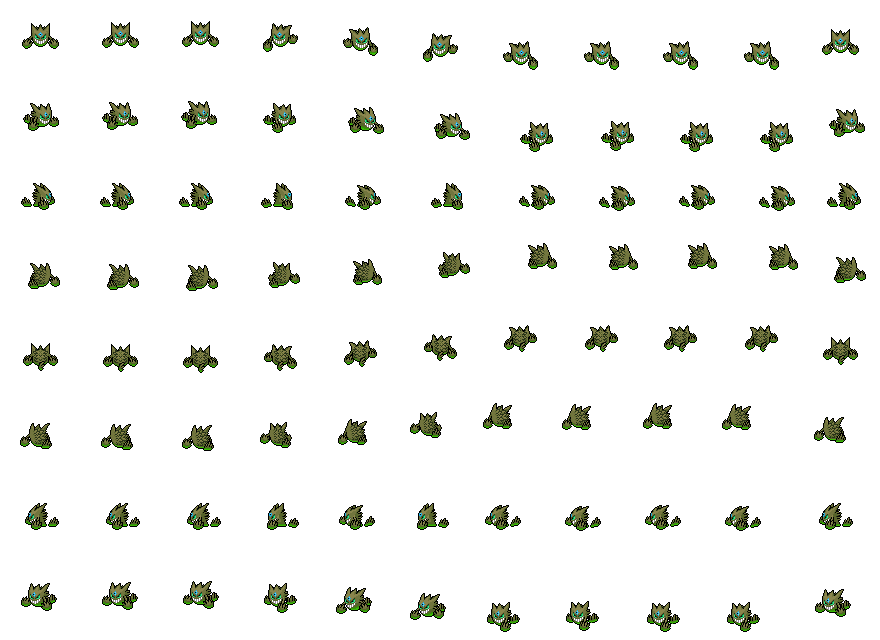
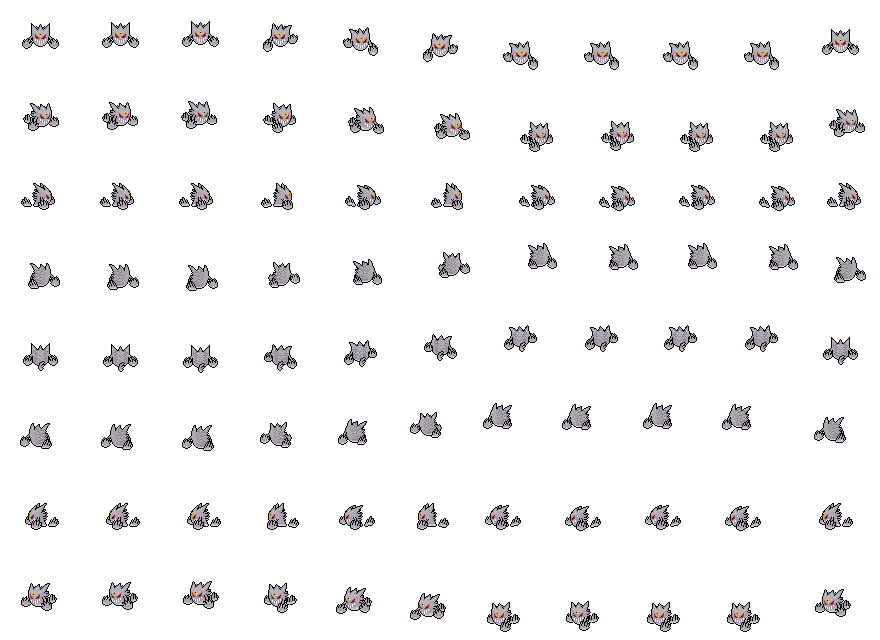
Mega Gengar shiny en blanco (como el oficial); fetch_form --white

diff --git a/js/data/sprites-meta.js b/js/data/sprites-meta.js
@@ -986,9 +986,9 @@ G.SPRITE_META = {
   1889: {"s":2,"a":{"Idle":{"w":56,"h":72,"n":8,"r":8,"d":[30,12,2,2,2,2,2,12],"ax":27.5,"ay":39.5},"Walk":{"w":56,"h":72,"n":4,"r":8,"d":[10,10,10,10],"ax":27.5,"ay":39.5},"Attack":{"w":96,"h":112,"n":13,"r":8,"d":[2,2,4,1,1,2,2,2,2,2,2,2,2],"ax":47.5,"ay":58.5},"Shoot":{"w":64,"h":80,"n":12,"r":8,"d":[1,2,8,1,2,2,2,2,2,2,2,2],"ax":31.5,"ay":42.5},"Charge":{"w":56,"h":72,"n":10,"r":8,"d":[2,2,2,2,2,2,2,2,2,2],"ax":28.5,"ay":39.5},"Hurt":{"w":64,"h":88,"n":2,"r":8,"d":[2,8],"ax":31.5,"ay":45.5},"Faint":{"w":64,"h":88,"n":2,"r":8,"d":[2,8],"ax":31.5,"ay":45.5}},"sh":1},
   1646: {"s":2,"a":{"Idle":{"w":112,"h":112,"n":2,"r":8,"d":[40,30],"ax":55.5,"ay":59.5},"Walk":{"w":112,"h":120,"n":4,"r":8,"d":[8,12,8,12],"ax":55.5,"ay":63.5},"Attack":{"w":104,"h":144,"n":17,"r":8,"d":[2,2,2,2,2,2,2,2,2,2,2,2,2,2,4,4,2],"ax":51.5,"ay":75.5},"Shoot":{"w":104,"h":144,"n":17,"r":8,"d":[2,2,2,2,2,2,2,1,1,2,2,2,2,2,4,4,2],"ax":51.5,"ay":75.5},"Charge":{"w":96,"h":96,"n":10,"r":8,"d":[2,2,2,2,2,2,2,2,2,2],"ax":48.5,"ay":51.5},"Hurt":{"w":112,"h":96,"n":2,"r":8,"d":[2,8],"ax":55.5,"ay":47.5},"Faint":{"w":112,"h":96,"n":2,"r":8,"d":[2,8],"ax":55.5,"ay":47.5}},"sh":1},
   2646: {"s":2,"a":{"Idle":{"w":104,"h":112,"n":14,"r":8,"d":[60,10,2,2,2,2,2,2,2,2,2,2,2,10],"ax":51.5,"ay":59.5},"Walk":{"w":104,"h":112,"n":4,"r":8,"d":[8,12,8,12],"ax":51.5,"ay":59.5},"Attack":{"w":112,"h":144,"n":16,"r":8,"d":[2,2,2,2,2,2,2,2,2,2,2,2,2,2,2,2],"ax":55.5,"ay":75.5},"Shoot":{"w":120,"h":136,"n":16,"r":8,"d":[2,2,2,2,2,2,2,1,1,2,2,2,2,2,2,2],"ax":59.5,"ay":71.5},"Charge":{"w":96,"h":112,"n":10,"r":8,"d":[2,2,2,2,2,2,2,2,2,2],"ax":48.5,"ay":59.5},"Hurt":{"w":104,"h":136,"n":2,"r":8,"d":[2,8],"ax":51.5,"ay":67.5},"Faint":{"w":104,"h":136,"n":2,"r":8,"d":[2,8],"ax":51.5,"ay":67.5}},"sh":1},
-  1094: {"s":2,"a":{"Idle":{"w":40,"h":40,"n":8,"r":8,"d":[40,4,3,3,3,3,3,4],"ax":19.5,"ay":23.5},"Walk":{"w":40,"h":40,"n":4,"r":8,"d":[8,10,8,10],"ax":19.5,"ay":23.5},"Attack":{"w":80,"h":80,"n":11,"r":8,"d":[4,2,4,1,1,1,2,2,2,2,4],"ax":39.5,"ay":43.5},"Shoot":{"w":64,"h":64,"n":12,"r":8,"d":[2,4,1,1,10,2,2,2,2,2,2,2],"ax":31.5,"ay":32.5},"Charge":{"w":48,"h":40,"n":10,"r":8,"d":[2,2,2,2,2,2,2,2,2,2],"ax":24.5,"ay":23.5},"Hurt":{"w":48,"h":48,"n":2,"r":8,"d":[2,8],"ax":23.5,"ay":25.5},"Faint":{"w":48,"h":48,"n":2,"r":8,"d":[2,8],"ax":23.5,"ay":25.5}},"sh":1},
   1383: {"s":2,"a":{"Idle":{"w":72,"h":80,"n":14,"r":8,"d":[60,10,2,2,2,2,2,2,2,2,2,2,2,10],"ax":35.5,"ay":43.5},"Walk":{"w":72,"h":80,"n":4,"r":8,"d":[10,12,10,12],"ax":35.5,"ay":43.5},"Attack":{"w":88,"h":104,"n":10,"r":8,"d":[2,6,1,1,2,2,2,2,2,2],"ax":43.5,"ay":54.5},"Shoot":{"w":80,"h":88,"n":12,"r":8,"d":[2,2,6,2,2,2,2,2,2,2,2,2],"ax":39.5,"ay":45.5},"Charge":{"w":64,"h":80,"n":10,"r":8,"d":[2,2,2,2,2,2,2,2,2,2],"ax":32.5,"ay":43.5},"Hurt":{"w":72,"h":80,"n":2,"r":8,"d":[2,8],"ax":35.5,"ay":39.5},"Faint":{"w":72,"h":80,"n":2,"r":8,"d":[2,8],"ax":35.5,"ay":39.5}},"sh":1},
   1382: {"s":2,"a":{"Idle":{"w":64,"h":72,"n":10,"r":8,"d":[10,14,14,14,14,10,14,14,14,14],"ax":31.5,"ay":39.5},"Walk":{"w":64,"h":72,"n":10,"r":8,"d":[8,8,8,8,8,8,8,8,8,8],"ax":31.5,"ay":39.5},"Attack":{"w":80,"h":72,"n":10,"r":8,"d":[2,6,1,1,2,2,2,2,2,2],"ax":39.5,"ay":38.5},"Shoot":{"w":72,"h":72,"n":11,"r":8,"d":[2,6,2,2,2,2,2,2,2,2,2],"ax":35.5,"ay":37.5},"Charge":{"w":64,"h":64,"n":10,"r":8,"d":[2,2,2,2,2,2,2,2,2,2],"ax":32.5,"ay":35.5},"Hurt":{"w":64,"h":88,"n":2,"r":8,"d":[2,8],"ax":31.5,"ay":43.5},"Faint":{"w":64,"h":88,"n":2,"r":8,"d":[2,8],"ax":31.5,"ay":43.5}},"sh":1},
   1483: {"s":2,"a":{"Idle":{"w":56,"h":136,"n":6,"r":8,"d":[12,12,12,12,12,12],"ax":27.5,"ay":71.5},"Walk":{"w":56,"h":136,"n":8,"r":8,"d":[8,10,8,10,8,10,8,10],"ax":27.5,"ay":71.5},"Attack":{"w":80,"h":144,"n":13,"r":8,"d":[2,2,2,2,2,6,1,1,2,2,2,2,2],"ax":40.5,"ay":74.5},"Shoot":{"w":80,"h":144,"n":13,"r":8,"d":[2,2,2,2,2,6,1,1,2,2,2,2,2],"ax":40.5,"ay":74.5},"Charge":{"w":64,"h":136,"n":10,"r":8,"d":[2,2,2,2,2,2,2,2,2,2],"ax":32.5,"ay":71.5},"Hurt":{"w":80,"h":136,"n":2,"r":8,"d":[2,8],"ax":39.5,"ay":67.5},"Faint":{"w":80,"h":136,"n":2,"r":8,"d":[2,8],"ax":39.5,"ay":67.5}},"sh":1},
   1484: {"s":2,"a":{"Idle":{"w":72,"h":144,"n":6,"r":8,"d":[12,12,12,12,12,12],"ax":35.5,"ay":75.5},"Walk":{"w":72,"h":136,"n":8,"r":8,"d":[8,10,8,10,8,10,8,10],"ax":35.5,"ay":71.5},"Attack":{"w":80,"h":136,"n":13,"r":8,"d":[2,2,2,2,2,6,1,1,2,2,2,2,2],"ax":40.5,"ay":70.5},"Shoot":{"w":80,"h":136,"n":13,"r":8,"d":[2,2,2,2,2,6,1,1,2,2,2,2,2],"ax":40.5,"ay":70.5},"Charge":{"w":64,"h":136,"n":10,"r":8,"d":[2,2,2,2,2,2,2,2,2,2],"ax":32.5,"ay":71.5},"Hurt":{"w":80,"h":136,"n":2,"r":8,"d":[2,8],"ax":39.5,"ay":67.5},"Faint":{"w":80,"h":136,"n":2,"r":8,"d":[2,8],"ax":39.5,"ay":67.5}},"sh":1},
+  1094: {"s":2,"a":{"Idle":{"w":40,"h":40,"n":8,"r":8,"d":[40,4,3,3,3,3,3,4],"ax":19.5,"ay":23.5},"Walk":{"w":40,"h":40,"n":4,"r":8,"d":[8,10,8,10],"ax":19.5,"ay":23.5},"Attack":{"w":80,"h":80,"n":11,"r":8,"d":[4,2,4,1,1,1,2,2,2,2,4],"ax":39.5,"ay":43.5},"Shoot":{"w":64,"h":64,"n":12,"r":8,"d":[2,4,1,1,10,2,2,2,2,2,2,2],"ax":31.5,"ay":32.5},"Charge":{"w":48,"h":40,"n":10,"r":8,"d":[2,2,2,2,2,2,2,2,2,2],"ax":24.5,"ay":23.5},"Hurt":{"w":48,"h":48,"n":2,"r":8,"d":[2,8],"ax":23.5,"ay":25.5},"Faint":{"w":48,"h":48,"n":2,"r":8,"d":[2,8],"ax":23.5,"ay":25.5}},"sh":1},
 };

diff --git a/tools/fetch_form.py b/tools/fetch_form.py
@@ -12,6 +12,8 @@ si fuera un Pokémon nuevo, y añade su entrada a js/data/sprites-meta.js.
   --fake-shiny  si la forma no tiene shiny en SpriteCollab, se genera uno
                 oscureciendo los verdes (estilo Mega Rayquaza shiny: negro y oro)
   --hue N       en vez de eso, girar el tono N grados (shiny genérico)
+  --white       el color del cuerpo (el tono dominante) pasa a blanco/gris claro
+                (estilo Mega Gengar shiny); el resto se conserva
 
 Reutiliza las funciones de tools/fetch_sprites.py.
 """
@@ -47,6 +49,45 @@ def hue_shiny(src_dir, dst_dir, anims, deg):
                     continue
                 hh = (hh + deg / 360.0) % 1.0
                 nr, ng, nb = colorsys.hsv_to_rgb(hh, ss, vv)
+                px[x, y] = (int(nr * 255), int(ng * 255), int(nb * 255), al)
+        buf = io.BytesIO(); im.save(buf, 'PNG')
+        fs.save_optimized(buf.getvalue(), os.path.join(dst_dir, a + '.png'))
+
+
+def white_shiny(src_dir, dst_dir, anims):
+    """El tono dominante (el cuerpo) → blanco grisáceo con el mismo sombreado; eyes, boca, etc. se quedan."""
+    import colorsys
+    from collections import Counter
+    os.makedirs(dst_dir, exist_ok=True)
+    # tono dominante entre los píxeles con color
+    hist = Counter()
+    for a in anims:
+        pth = os.path.join(src_dir, a + '.png')
+        if not os.path.exists(pth):
+            continue
+        im = Image.open(pth).convert('RGBA')
+        for r, g, b, al in im.getdata():
+            if al == 0: continue
+            hh, ss, vv = colorsys.rgb_to_hsv(r / 255, g / 255, b / 255)
+            if ss >= 0.18 and vv >= 0.12: hist[int(hh * 36)] += 1
+    dom = hist.most_common(1)[0][0] / 36.0
+    for a in anims:
+        pth = os.path.join(src_dir, a + '.png')
+        if not os.path.exists(pth):
+            continue
+        im = Image.open(pth).convert('RGBA')
+        px = im.load(); w, h = im.size
+        for y in range(h):
+            for x in range(w):
+                r, g, b, al = px[x, y]
+                if al == 0: continue
+                hh, ss, vv = colorsys.rgb_to_hsv(r / 255, g / 255, b / 255)
+                if ss < 0.18 or vv < 0.12: continue
+                d = min(abs(hh - dom), 1 - abs(hh - dom))
+                if d > 0.09: continue                       # otro color (ojos, boca): se queda
+                # blanco con el mismo sombreado: claro → casi blanco, oscuro → gris
+                v2 = 0.45 + vv * 0.55
+                nr, ng, nb = colorsys.hsv_to_rgb(hh, 0.06, v2)
                 px[x, y] = (int(nr * 255), int(ng * 255), int(nb * 255), al)
         buf = io.BytesIO(); im.save(buf, 'PNG')
         fs.save_optimized(buf.getvalue(), os.path.join(dst_dir, a + '.png'))
@@ -89,6 +130,7 @@ def main():
     src, form, dex = int(sys.argv[1]), sys.argv[2], int(sys.argv[3])
     fake = '--fake-shiny' in sys.argv
     hue = int(sys.argv[sys.argv.index('--hue') + 1]) if '--hue' in sys.argv else None
+    white = '--white' in sys.argv
     base = f'{fs.BASE}/{src:04d}/{form}'
     out_dir = os.path.join(fs.OUT_ASSETS, str(dex))
     xml = fs.fetch(f'{base}/AnimData.xml')
@@ -110,6 +152,10 @@ def main():
             if diff: meta['sa'] = diff
             miss = [k for k in normal if k not in shiny]
             if miss: meta['sm'] = miss
+    elif white:
+        white_shiny(out_dir, os.path.join(out_dir, 's'), normal)
+        meta['sh'] = 1
+        print('Shiny generado en blanco (no existe en SpriteCollab)')
     elif hue is not None:
         hue_shiny(out_dir, os.path.join(out_dir, 's'), normal, hue)
         meta['sh'] = 1
